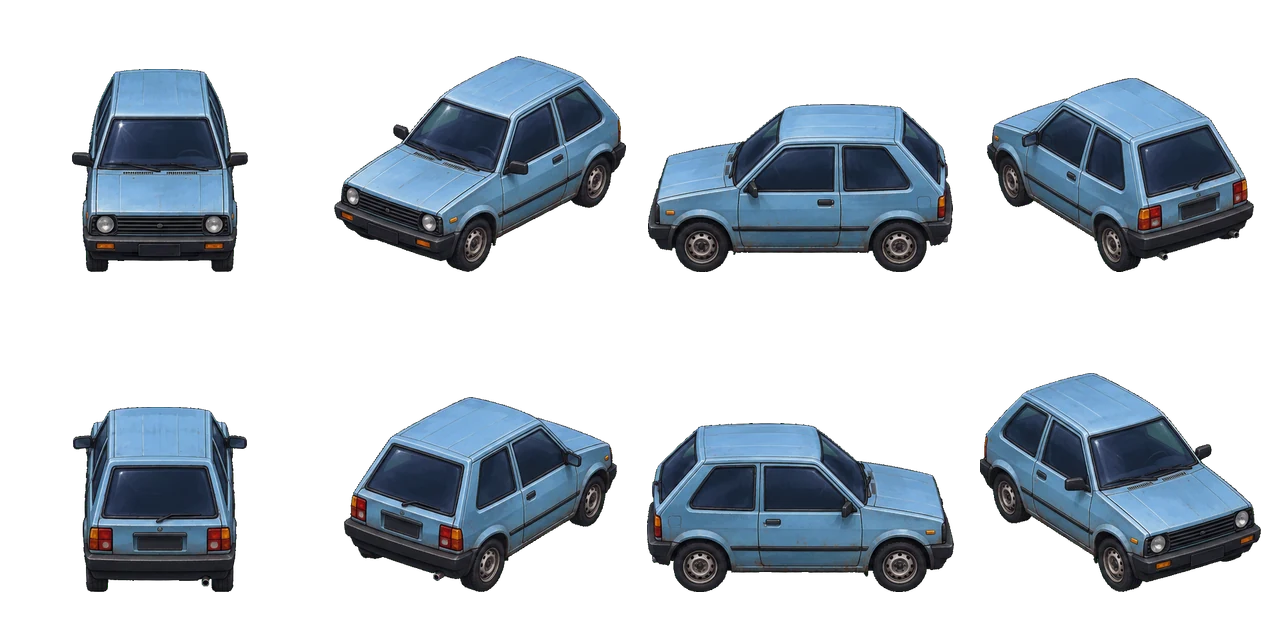
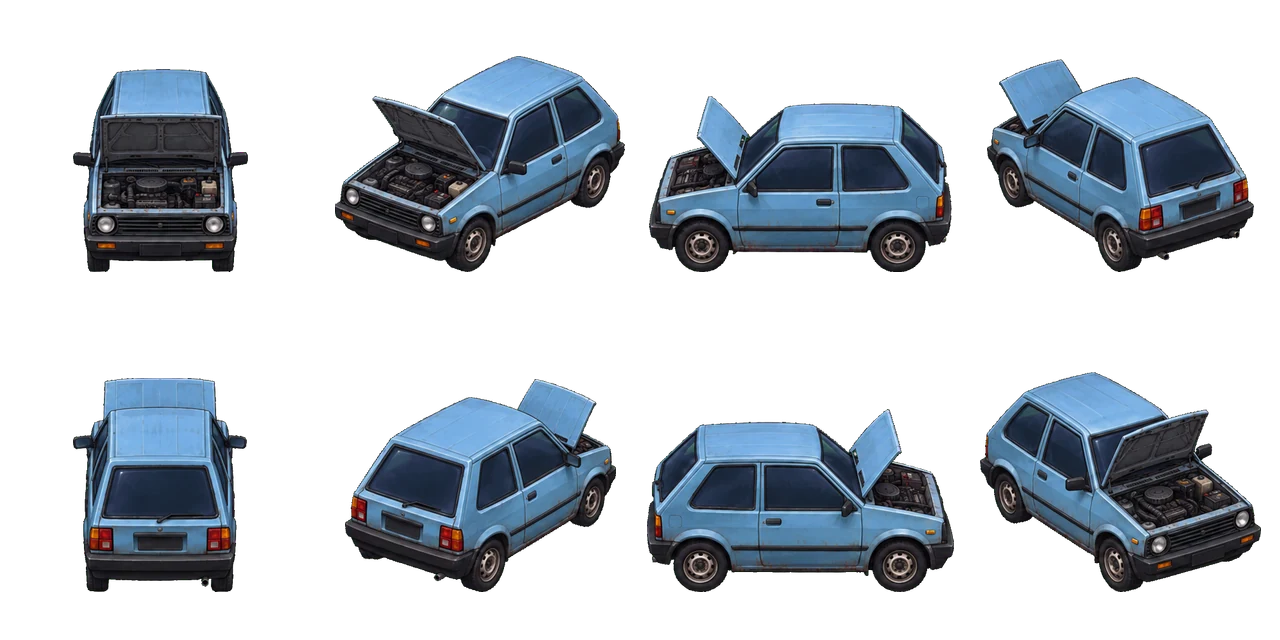
uno-capo-fumaca: Uno de capô aberto + fumaça do Codex (16 quadros) saindo do motor por vista
O carro regerado com o capô levantado (evidence carro-t1, mesma escala da t2: só as alturas sobem) e a fumaça
gerada pelo Codex no fundo preto (fumacad16-t6, brilho -> alfa), folha 8x2 de 96x192 (78 KB) por
scripts/import-uno-fumaca.mjs. uno-art.ts: boca do motor por vista (UNO_ENGINE), atrás do carro em N/NO/NE,
12 fps, um quadro parado com efeitos reduzidos. A fumaça escura do capô sob CAR_LOW deixa de ser bolinha
desenhada: é a mesma fumaça, escurecida.

diff --git a/src/client/render/chaveiro/renderer.ts b/src/client/render/chaveiro/renderer.ts
@@ -20,14 +20,14 @@ import {token,tokenColor,whenFontsReady} from '../../ui/tokens.ts';
 import {LIT_SHADOW,lightEnabled} from '../light.ts';
 import {boxFaces,faceBounds,isoOffset,mix,M,viewTurn,type Box,type Face} from './iso.ts';
 import {CAR_HALF,CAR_TOP,carBoxes,fallenParts,fallingPart,motoBoxes,standingChaveiro} from './figures.ts';
-import {CAR_LOW,HIT_POPS_MAX,LOW_SMOKE_MS,carLife,hitFlash,hitPop,PART_FALL_MS,TIO_SPOT,tioSpot,alarmOn,easeAngle,wheelStep,alarmWaves,chargerLabel,engineShake,hazardLit,motoLift,motoPose,openProgress,trunkOpen,voltaCentre,voltaLap,deliveryKey,deliveryPulse,fallenKey} from './rules.ts';
+import {CAR_LOW,HIT_POPS_MAX,carLife,hitFlash,hitPop,PART_FALL_MS,TIO_SPOT,tioSpot,alarmOn,easeAngle,wheelStep,alarmWaves,chargerLabel,engineShake,hazardLit,motoLift,motoPose,openProgress,trunkOpen,voltaCentre,voltaLap,deliveryKey,deliveryPulse,fallenKey} from './rules.ts';
 import {ChaveiroTracker} from './tracker.ts';
 import {MOTO_POSE_STATE,applyMotoArt,imageBounds,motoColumn} from './moto-art.ts';
 import {TriBand} from '../city/tri-band.ts';
 import {CAR_PARTS,type ChaveiroView} from './view.ts';
 import {UsableGlow} from '../usable-glow.ts';
 import {inFrontOfCar,towardViewer,type CarSort} from './car-sort.ts';
-import {UNO_CELL,UNO_FOOT,UNO_KEY,UNO_SCALE,UNO_URL,unoBox,unoFootY,unoFrame} from './uno-art.ts';
+import {UNO_CELL,UNO_FOOT,UNO_KEY,UNO_SCALE,UNO_SMOKE_H,UNO_SMOKE_KEY,UNO_SMOKE_SCALE,UNO_SMOKE_SRC,UNO_SMOKE_URL,UNO_SMOKE_W,UNO_URL,unoBox,unoFootY,unoFrame,unoSmoke} from './uno-art.ts';
 import {HEIGHT_PX} from '../city/projection.ts';
 import type {Speaker} from './lines.ts';
 
@@ -50,9 +50,7 @@ export interface ChaveiroRendererOptions {projector:Projector;reduced:boolean;
   hero?:()=>Pt|undefined}
 
 /** A smoke puff, drawn with its figure (so a building in front hides it too). */
-interface Puff {x:number;y:number;z:number;born:number;dark:boolean;drift:number;moto:boolean;
-  /** The hood's smoke under CAR_LOW (card inimigos-querem-o-uno): bigger and thicker than the exhaust's. */
-  big?:boolean}
+interface Puff {x:number;y:number;z:number;born:number;dark:boolean;drift:number;moto:boolean}
 /** Car faces cached by look (parts, hazard, trunk step, wrecked, view): the car is redrawn every frame, its boxes rarely change. */
 const CAR_CACHE_MAX=48;
 /** The ground's frozen pieces, in the order the one Graphics drew them: the delivery ring under the shadows, the fallen parts over. */
@@ -112,7 +110,7 @@ export class ChaveiroRenderer {
   private now=0;
   private carFaces=new Map<string,Face[]>();
   private puffs:Puff[]=[];
-  private lastPuff=0;private lastLowPuff=0;
+  private lastPuff=0;
   /** Card inimigos-querem-o-uno: the hits' numbers rising off the roof (a fixed pool, tracker.pops). */
   private popTexts:Phaser.GameObjects.Text[]=[];
   private q:Pt={x:0,y:0};
@@ -141,6 +139,8 @@ export class ChaveiroRenderer {
   private motoImg:Phaser.GameObjects.Image;private standImg:Phaser.GameObjects.Image;
   /** The imported Uno (uno-art.ts), made once its sheet is in; until then (or if it fails) the boxes. */
   private uno?:Phaser.GameObjects.Image;
+  /** Card uno-capo-fumaca: the smoke out of the raised hood (the Codex's 16 frames, uno-art.ts), made once its sheet is in. */
+  private unoSmokeImg?:Phaser.GameObjects.Image;
   /** contorno-usavel-wc3: the car is pulled on its rope: the Warcraft 3 gold outline around the imported Uno. */
   private glow?:UsableGlow;
 
@@ -167,12 +167,22 @@ export class ChaveiroRenderer {
       scene.load.spritesheet(UNO_KEY,UNO_URL,{frameWidth:UNO_CELL,frameHeight:UNO_CELL});
       if(!scene.load.isLoading())scene.load.start();
     }
+    if(!scene.textures.exists(UNO_SMOKE_KEY)){
+      scene.load.spritesheet(UNO_SMOKE_KEY,UNO_SMOKE_URL,{frameWidth:UNO_SMOKE_W,frameHeight:UNO_SMOKE_H});
+      if(!scene.load.isLoading())scene.load.start();
+    }
   }
 
   /** The Uno's image once its sheet is in (undefined: the provisional boxes). */
   private unoImage():Phaser.GameObjects.Image|undefined{
     if(!this.uno&&this.scene.textures.exists(UNO_KEY))this.uno=this.scene.add.image(0,0,UNO_KEY,0).setOrigin(.5,UNO_FOOT).setName('chaveiro-uno');
     return this.uno;
+  }
+  /** The hood's smoke image once its sheet is in (undefined: no smoke). */
+  private unoSmokeImage():Phaser.GameObjects.Image|undefined{
+    if(!this.unoSmokeImg&&this.scene.textures.exists(UNO_SMOKE_KEY))this.unoSmokeImg=this.scene.add.image(0,0,UNO_SMOKE_KEY,0)
+      .setOrigin(UNO_SMOKE_SRC[0]/UNO_SMOKE_W,UNO_SMOKE_SRC[1]/UNO_SMOKE_H).setName('chaveiro-uno-fumaca');
+    return this.unoSmokeImg;
   }
   /** The Uno as drawn (world px), so HUD cards keep clear of it (perfil-nao-cobre); undefined while hidden or not loaded. */
   unoWorldBox(){
@@ -213,7 +223,7 @@ export class ChaveiroRenderer {
     const st=this.state,view=st.view;
     this.label.setVisible(false);this.deliveryText.setVisible(false);
     for(const t of this.popTexts)t.setVisible(false);
-    if(!view){this.sort=undefined;this.puffs=[];this.frozenCar.hide();this.frozenMoto.hide();this.frozenOpener.hide();this.frozenFallen.hide();this.motoImg.setVisible(false);this.standImg.setVisible(false);this.delivery?.band.setVisible(false);this.uno?.setVisible(false);this.glow?.begin(time);this.glow?.end();this.carTurn=this.carHeading=0;this.drawn.shown=false;return;}
+    if(!view){this.sort=undefined;this.puffs=[];this.frozenCar.hide();this.frozenMoto.hide();this.frozenOpener.hide();this.frozenFallen.hide();this.motoImg.setVisible(false);this.standImg.setVisible(false);this.delivery?.band.setVisible(false);this.uno?.setVisible(false);this.unoSmokeImg?.setVisible(false);this.glow?.begin(time);this.glow?.end();this.carTurn=this.carHeading=0;this.drawn.shown=false;return;}
     const k=1/Math.max(.05,this.scene.cameras.main.zoom),reduced=this.options.reduced,proj=this.options.projector;
     // The car turns toward its move (eased; at once with reduced effects), frozen in HEADING_STEPS like the moto; the
     // side facing the screen shows its wheels turning by how far it rolled.
@@ -257,10 +267,18 @@ export class ChaveiroRenderer {
       unoTop=unoBox(frame,carX,footY);
       uno.setFrame(frame).setScale(UNO_SCALE).setPosition(carX,footY).setDepth(carDepth).setTint(tint).setVisible(true);
       uno.setAlpha(this.coversBox(unoTop,carDepth,this.sort)?COVER_ALPHA:1);
+      // Card uno-capo-fumaca: the engine smokes out of the raised hood (behind the car where the hood hides the engine);
+      // under CAR_LOW of its life (card inimigos-querem-o-uno) the same smoke turns dark and thick.
+      const smoke=this.unoSmokeImage();
+      if(smoke){
+        const s=unoSmoke(frame,carX,footY,time,reduced),low=!view.ended&&carLife(view.car)<CAR_LOW;
+        smoke.setFrame(s.frame).setScale(UNO_SCALE*UNO_SMOKE_SCALE).setPosition(s.x,s.y).setDepth(carDepth+(s.behind?-.02:.02))
+          .setTint(low||wrecked?0x55555c:0xffffff).setAlpha(uno.alpha*(low?1:.9)).setVisible(true);
+      }
       const glow=this.glow??=new UsableGlow(this.scene,reduced);glow.begin(time);
       if(!view.ended)glow.mark('uno',uno,k);
       glow.end();
-      // Its smoke puffs (the exhaust, the hood under CAR_LOW) and falling parts draw just over it: at depth 0 the city hid them.
+      // Its exhaust's puffs and falling parts draw just over it: at depth 0 the city hid them.
       this.car.setDepth(carDepth+.01).setAlpha(1);
       if(fallingBits){
         const boxes:Box[]=[];
@@ -364,7 +382,7 @@ export class ChaveiroRenderer {
     this.ground.destroy();this.car.destroy();this.moto.destroy();this.opener.destroy();this.fx.destroy();
     this.frozenCar.destroy();this.frozenMoto.destroy();this.frozenOpener.destroy();this.frozenFallen.destroy();
     this.motoImg.destroy();this.standImg.destroy();
-    this.delivery?.band.destroy();this.delivery=undefined;this.uno?.destroy();this.uno=undefined;this.glow?.destroy();this.glow=undefined;
+    this.delivery?.band.destroy();this.delivery=undefined;this.uno?.destroy();this.uno=undefined;this.unoSmokeImg?.destroy();this.unoSmokeImg=undefined;this.glow?.destroy();this.glow=undefined;
     this.label.destroy();this.deliveryText.destroy();this.puffs=[];
   }
 
@@ -465,19 +483,12 @@ export class ChaveiroRenderer {
         this.puffs.push({x:m.x,y:m.y,z:.35*M,born:time,dark:mode==='morta',drift:Math.cos(time)*.3,moto:true});
       }
     }
-    // Card inimigos-querem-o-uno: under CAR_LOW of its life the hood smokes dark (the engine is dying).
-    if(!view.ended&&carLife(view.car)<CAR_LOW&&time-this.lastLowPuff>=LOW_SMOKE_MS){
-      this.lastLowPuff=time;
-      const hood=this.local(view.car.x,view.car.y,this.carHeading,1.3*M,Math.sin(time*.01)*.3*M);
-      this.puffs.push({x:hood.x,y:hood.y,z:1.1*M,born:time,dark:true,drift:Math.cos(time*.7)*.4,moto:false,big:true});
-    }
     this.puffs=this.puffs.filter(p=>time-p.born<SMOKE_LIFE_MS);
     const v=this.options.projector.view;
     for(const p of this.puffs){
       const t=(time-p.born)/SMOKE_LIFE_MS,s=this.options.projector.project(p.x,p.y,this.q),o=isoOffset(p.drift*t*M,0,p.z+t*1.1*M,v);
       const color=p.dark?mix(this.c.breu,this.c.papel,.25):mix(this.c.papel,0xffffff,.4);
-      const big=p.big?2.2:1,alpha=p.big?.8:.55,ink=p.big?mix(this.c.breu,this.c.papel,.12):color;
-      (p.moto?this.moto:this.car).fillStyle(ink,(1-t)*alpha).fillCircle(s.x+o.x,s.y+o.y,(4+10*t)*big*Math.max(.6,k*.8));
+      (p.moto?this.moto:this.car).fillStyle(color,(1-t)*.55).fillCircle(s.x+o.x,s.y+o.y,(4+10*t)*Math.max(.6,k*.8));
     }
   }
   /** The alarm's sound waves: Cone arcs growing off the roof. */

diff --git a/tests/client/uno-art.test.ts b/tests/client/uno-art.test.ts
@@ -3,7 +3,7 @@ import test from 'node:test';
 import assert from 'node:assert/strict';
 import {existsSync,readFileSync} from 'node:fs';
 import sharp from 'sharp';
-import {UNO_CELL,UNO_FOOT,UNO_KEY,UNO_SCALE,UNO_SIZES,UNO_URL,UNO_VIEWS,unoFootY,unoFrame} from '../../src/client/render/chaveiro/uno-art.ts';
+import {UNO_CELL,UNO_ENGINE,UNO_FOOT,UNO_KEY,UNO_SCALE,UNO_SIZES,UNO_SMOKE_FPS,UNO_SMOKE_FRAMES,UNO_SMOKE_H,UNO_SMOKE_SCALE,UNO_SMOKE_SRC,UNO_SMOKE_URL,UNO_SMOKE_W,UNO_URL,UNO_VIEWS,unoFootY,unoFrame,unoSmoke} from '../../src/client/render/chaveiro/uno-art.ts';
 import {CAR_HALF} from '../../src/client/render/chaveiro/figures.ts';
 
 const Q=Math.PI/4;
@@ -58,4 +58,52 @@ test('uno: the sheet is in public/ — 4×2 square cells, each view on the wheel
     assert.ok(Math.abs(low-Math.round(UNO_FOOT*UNO_CELL))<=2,`frame ${UNO_VIEWS[f]} wheels at ${low}`);
     assert.equal(data[(y0*info.width+x0)*4+3],0,`frame ${UNO_VIEWS[f]} corner transparent`);
   }
+});
+
+// Card NEW-20261028-ORQ-uno-capo-fumaca: the hood raised and the Codex's smoke (16 frames) out of the engine.
+test('uno smoke: the sheet is 8×2 frames, the source at UNO_SMOKE_SRC in every frame, nothing on the edges, the loop has no jump',async()=>{
+  const file=`public${UNO_SMOKE_URL}`;
+  assert.ok(existsSync(file),file);
+  const {data,info}=await sharp(readFileSync(file)).ensureAlpha().raw().toBuffer({resolveWithObject:true});
+  assert.equal(info.width,8*UNO_SMOKE_W);assert.equal(info.height,2*UNO_SMOKE_H);
+  assert.equal(UNO_SMOKE_FRAMES,16);
+  const alpha=(f:number,x:number,y:number)=>data[((Math.floor(f/8)*UNO_SMOKE_H+y)*info.width+(f%8)*UNO_SMOKE_W+x)*4+3]/255;
+  const diffs:number[]=[];
+  for(let f=0;f<UNO_SMOKE_FRAMES;f++){
+    let edge=0,low=-1,sum=0,sx=0,diff=0;
+    for(let y=0;y<UNO_SMOKE_H;y++)for(let x=0;x<UNO_SMOKE_W;x++){
+      const a=alpha(f,x,y);
+      if(x<2||y<2||x>=UNO_SMOKE_W-2||y>=UNO_SMOKE_H-2)edge=Math.max(edge,a);
+      if(a>.2)low=Math.max(low,y);
+      diff+=Math.abs(a-alpha((f+1)%UNO_SMOKE_FRAMES,x,y));
+    }
+    for(let y=low-16;y<=low;y++)for(let x=0;x<UNO_SMOKE_W;x++){const a=alpha(f,x,y);sum+=a;sx+=a*x;}
+    assert.ok(edge<.03,`frame ${f} touches the edge (${edge})`);
+    assert.ok(Math.abs(low-UNO_SMOKE_SRC[1])<=2,`frame ${f} source y ${low}`);
+    assert.ok(Math.abs(sx/sum-UNO_SMOKE_SRC[0])<=3,`frame ${f} source x ${sx/sum}`);
+    diffs.push(diff);
+  }
+  // every step (the seam 16 → 1 too) within 1.3× the median step: no frame jumps
+  const med=[...diffs].sort((a,b)=>a-b)[8];
+  for(const [f,d] of diffs.entries())assert.ok(d/med<=1.3,`step ${f}→${(f+1)%16} is ${(d/med).toFixed(2)}× the median`);
+});
+
+test('uno smoke: out of the engine of each view, over the car where the engine shows and behind it where the hood hides it',async()=>{
+  const {data,info}=await sharp(readFileSync(`public${UNO_URL}`)).ensureAlpha().raw().toBuffer({resolveWithObject:true});
+  for(const [f,v] of UNO_VIEWS.entries()){
+    const [ex,ey]=UNO_ENGINE[v],x0=(f%4)*UNO_CELL,y0=Math.floor(f/4)*UNO_CELL;
+    // the engine's mouth is on the car (its body or the raised hood), not in the air
+    let on=0;for(let dy=-4;dy<=4;dy++)for(let dx=-4;dx<=4;dx++)if(data[((y0+ey+dy)*info.width+x0+ex+dx)*4+3]>60)on++;
+    assert.ok(on>=60,`${v}: engine (${ex},${ey}) off the car (${on}/81)`);
+    const s=unoSmoke(f,100,200,0);
+    assert.ok(Math.abs(s.x-(100+(ex-UNO_CELL/2)*UNO_SCALE))<1e-9&&Math.abs(s.y-(200+(ey-UNO_CELL*UNO_FOOT)*UNO_SCALE))<1e-9);
+    assert.equal(s.behind,v==='N'||v==='NO'||v==='NE',v);
+  }
+  // the loop: UNO_SMOKE_FPS frames a second, round and round; one still frame with reduced effects
+  assert.equal(unoSmoke(0,0,0,0).frame,0);
+  assert.equal(unoSmoke(0,0,0,1000).frame,UNO_SMOKE_FPS%UNO_SMOKE_FRAMES);
+  assert.equal(unoSmoke(0,0,0,UNO_SMOKE_FRAMES*1000/UNO_SMOKE_FPS+1).frame,0);
+  assert.equal(unoSmoke(0,0,0,777,true).frame,0);
+  // the column is about the car's cell tall
+  assert.ok(Math.abs(UNO_SMOKE_H*UNO_SMOKE_SCALE-.9*UNO_CELL)<1e-9);
 });

diff --git a/src/client/render/chaveiro/uno-art.ts b/src/client/render/chaveiro/uno-art.ts
@@ -1,6 +1,7 @@
 /**
  * The Quadradão 1.0's imported art (card NEW-20261022-ORQ-uno-no-jogo): the 8 views of the Uno generated by the Codex
- * (evidence NEW-20261021-ORQ-uno-8-lados, t2, approved by the user), cut by scripts/import-uno.mjs into one 4×2 sheet of
+ * (evidence NEW-20261021-ORQ-uno-8-lados, t2, approved by the user; since NEW-20261028-ORQ-uno-capo-fumaca the same car
+ * with its hood raised, evidence carro-t1), cut by scripts/import-uno.mjs into one 4×2 sheet of
  * square cells, all at one scale, the wheels on the 85 % line and each view centred. Until the sheet is in (or when it
  * fails) the renderer keeps the provisional boxes (figures.ts).
  * Pure rules (tested): which view shows the car's nose for a heading and a camera view, its scale and its ground anchor.
@@ -23,8 +24,41 @@ export const UNO_SCALE=2*(CAR_HALF.l+CAR_HALF.w)*42/281;
 
 /** Each view's opaque box in the sheet (w × h px, as scripts/import-uno.mjs printed it): centred, its bottom on the wheel line. */
 export const UNO_SIZES:Readonly<Record<UnoView,readonly [number,number]>>={
-  S:[176,203],SO:[292,216],O:[305,168],NO:[267,194],N:[174,185],NE:[273,195],L:[307,169],SE:[281,219],
+  S:[175,203],SO:[290,216],O:[303,176],NO:[267,213],N:[174,214],NE:[271,213],L:[307,183],SE:[281,220],
 };
+
+/**
+ * Card NEW-20261028-ORQ-uno-capo-fumaca: the car has broken down, its hood raised (sheet regenerated by the Codex,
+ * evidence carro-t1) and smoke rising out of the engine: 16 frames of one loop generated by the Codex on black (evidence
+ * fumacad16-t6, the brightness became the alpha), cut by scripts/import-uno-fumaca.mjs into one 8×2 sheet. No drawn smoke.
+ */
+export const UNO_SMOKE_KEY='chaveiro:uno-fumaca';
+export const UNO_SMOKE_URL='/art/lite/veiculos/uno-fumaca.webp';
+/** A smoke frame (px), the frames in the loop and its speed: the billows rise ~1/24 of the column per frame. */
+export const UNO_SMOKE_W=96,UNO_SMOKE_H=192,UNO_SMOKE_FRAMES=16,UNO_SMOKE_FPS=12;
+/** Where the smoke comes out in its frame (px): the same point in all 16. */
+export const UNO_SMOKE_SRC=[49.5,180] as const;
+/** Sheet px of the car per smoke px: the column is 90 % of the car's cell tall. */
+export const UNO_SMOKE_SCALE=.9*UNO_CELL/UNO_SMOKE_H;
+/**
+ * The engine's mouth in each view (px of the car's cell, read on the sheet): where the smoke comes out. In N, NO and NE
+ * the raised hood stands between the camera and the engine, so the smoke rises behind the car.
+ */
+export const UNO_ENGINE:Readonly<Record<UnoView,readonly [number,number]>>={
+  S:[156,178],SO:[88,180],O:[42,172],NO:[55,125],N:[160,70],NE:[258,118],L:[256,162],SE:[200,170],
+};
+export const UNO_SMOKE_BEHIND:ReadonlySet<UnoView>=new Set<UnoView>(['N','NO','NE']);
+
+/**
+ * The smoke for the car's `frame` drawn with its wheel line at (x, y) (world px): the point of the screen where the smoke
+ * image's source goes (its origin is UNO_SMOKE_SRC), whether it goes behind the car, and the loop's frame at `time` ms
+ * (`still`: reduced effects, one frame).
+ */
+export function unoSmoke(frame:number,x:number,y:number,time:number,still=false):{x:number;y:number;behind:boolean;frame:number}{
+  const v=UNO_VIEWS[frame],[ex,ey]=UNO_ENGINE[v];
+  return {x:x+(ex-UNO_CELL/2)*UNO_SCALE,y:y+(ey-UNO_CELL*UNO_FOOT)*UNO_SCALE,behind:UNO_SMOKE_BEHIND.has(v),
+    frame:still?0:Math.floor(Math.max(0,time)*UNO_SMOKE_FPS/1000)%UNO_SMOKE_FRAMES};
+}
 
 /** The car's box on the screen (world px) for `frame` with its wheel line at (x, y): the life bar and the fade read it. */
 export function unoBox(frame:number,x:number,y:number):{x:number;y:number;width:number;height:number}{

diff --git a/src/client/render/chaveiro/rules.ts b/src/client/render/chaveiro/rules.ts
@@ -81,9 +81,9 @@ export const motoNeedsTeam=(mode:MotoMode)=>mode==='morta'||mode==='tombo';
 export const CAR_LOW=.3;
 /**
  * Card inimigos-querem-o-uno, the Uno takes hits: each hit's number ("-3") rises off the roof for HIT_POP_MS, the car
- * flashes for HIT_FLASH_MS, and under CAR_LOW of its life the hood smokes dark (a puff every LOW_SMOKE_MS).
+ * flashes for HIT_FLASH_MS, and under CAR_LOW of its life the hood's smoke turns dark (renderer.ts, card uno-capo-fumaca).
  */
-export const HIT_POP_MS=900,HIT_FLASH_MS=160,LOW_SMOKE_MS=260;
+export const HIT_POP_MS=900,HIT_FLASH_MS=160;
 /** At most this many numbers in the air: a horde's hits add into the newest one instead of piling up. */
 export const HIT_POPS_MAX=4;
 /** Hits closer than this (ms) add into one number. */
